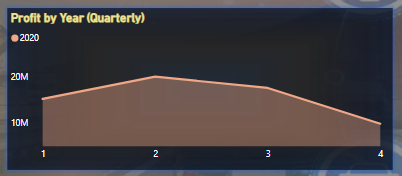
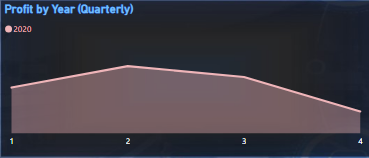
last commit on last portfolio

Changed region(s): [[0.0, 0.0, 1.0, 1.0]]

diff --git a/generic.html b/generic.html
@@ -40,101 +40,280 @@
 						<!-- Post -->
 							<section class="post">
 								<header class="major">
-									<h1>Diagnostic Analysis on Cookies Business Using Power BI</h1>
-									<p> Executive Summary: Diagnostic Analysis of Low Purchase from Promo and Acme Grocery Store</p>
+									<h1>Descriptive Analysis on OLK STORE Using Power BI</h1>
+									<p> Executive Summary: Descriptive Analysis on OLK STORE </p>
 								</header>
-								<div class="image main"><img src="images/cookiesdb.png" alt="" /></div>
+								<div class="image main"><img src="images/olkdashboard.PNG" alt="" /></div>
 								<p>
 								<strong>
 									Introduction:
 								</strong>
-									OLK Store, a wholesale cookies retailer, has been experiencing low purchases from two significant
-									 customers, Promo and Acme Grocery Store. This diagnostic analysis aims to uncover the root cause of 
-									 the low purchase and present key performance indicators (KPIs) such as total transactions, total profit, total 
-									 revenue, total number of cookies sold, and production cost. The analysis was conducted as part of an intern
-									  project, involving data cleaning and modeling using Power Query and Power BI.
-									
+								OLK Store, a prominent wholesale supplier specializing in cookies, commissioned a comprehensive
+								 analysis to elucidate critical aspects of its business operations. The focus of this analysis
+								  was to delineate key performance indicators (KPIs) that encompassed total transactions, total profit,
+								   total revenue, total units of cookies sold, and production costs. The project additionally delved into
+								    customer segmentation based on the quantity of cookies purchased, with a keen examination of the 
+									associated shipping durations.
+
+								Executed as part of an intern project, this analysis undertook meticulous data cleaning and modeling 
+								procedures employing advanced tools such as Power Query and Power BI. The utilization of these sophisticated
+								 analytical tools ensured a rigorous and insightful examination of OLK Store's operational dynamics, allowing 
+								 for a nuanced understanding of various facets crucial to strategic decision-making and business optimization.
+								  The outcomes of this project contribute valuable insights for refining business strategies and enhancing 
+								  overall performance within the wholesale cookies supply domain.
+								
+								
+								
+								
+								
+								
+							   <p>
+								<strong>	
 									Data Preparation:
-									The raw data, spanning four years and organized into separate Excel sheets, was imported into Power Query. 
+								</strong>
+								
+								<img class="image chart" src="images/dataset.png"  alt="" />
+								
+								
+									The raw data, spanning four years and organized into separate Excel sheets, was imported into Power Query using append 
+									and merge. 
 									The data underwent cleaning to address null values and unwanted figures. Afterward, it was loaded into Power BI
 									 for further analysis.
+									 <p>
+										<strong>
+											Total Transactions By Customer:
+										</strong>
+										<img class="image column" src="images/olkcustomertotaltrans.PNG"  alt="" />
+										During the period spanning from 2017 to 2020, the following transactional
+										 data was observed for several establishments:
+										<ul>
+											<strong>
+											<h4>
+												YT Restaurants:
+											</h4>
+											</strong>	
+											<li>Total Transactions: 670</li>
+											<li>Number of Cookies Shipped: 345,614</li>
+										</ul>
+										<ul>
+											<strong>
+											<h4>
+												Quick Bite Conveniences Store:
+											</h4>
+											</strong>	
+											<li>Total Transactions: 779</li>
+											<li>Number of Cookies Shipped: 395,394</li>
+										</ul>
+
+										<ul>
+											<strong>
+											<h4>
+												Promo Sales:
+											</h4>
+											</strong>	
+											<li>Total Transactions: 59</li>
+											<li>Number of Cookies Shipped: 31,778</li>
+										</ul>
+										<ul>
+											<strong>
+											<h4>
+												Cascade Grovers:
+											</h4>
+											</strong>	
+											<li>Total Transactions: 918</li>
+											<li>Number of Cookies Shipped: 479,965</li>
+										</ul>
+										<ul>
+											<strong>
+											<h4>
+												Park & Eat LLC:
+											</h4>
+											</strong>	
+											<li>Total Transactions: 597</li>
+											<li>Number of Cookies Shipped: 313,113</li>
+										</ul>
+										<ul>
+											<strong>
+											<h4>
+												Acme Grocery Store:
+											</h4>
+											</strong>	
+											<li>Total Transactions: 208</li>
+											<li>Number of Cookies Shipped: 112,358</li>
+										</ul>
+									</p>
+									Therefore, the combined total transactions for all establishments over the period of 2017 to 2020 amount to <strong>3,231</strong>
+									Total Cookies Shipped from 2017 to 2020: amounts to <strong>1,198,257.</strong>
+									<p>
+										<strong>
+											Customer Segment:
+										</strong>
+										<img class="image column" src="images/olkpurchasesegment.PNG"  alt="" />
+										Establishments demonstrating transactional volumes equal to or exceeding 300 
+										were categorized as high-purchasing customers, reflecting a substantial level of engagement and business
+										 activity. Conversely, establishments with transactional volumes
+										 below 300 were classified as low-purchasing customers, indicating a comparatively moderate 
+										 level of business interaction. 
+										 This classification framework provides a structured approach to assessing the performance 
+										 and purchasing behavior of each customer, facilitating a nuanced understanding of their
+										  respective contributions to the overall business landscape.
+
+
+
+
+
+
+ 									</p>
+									 <p>
+										<strong>
+											Shipments Duration Segment:
+										</strong>
+										<img class="image column" src="images/olkshipmentduration.PNG"  alt="" />
+										The categorization of shipment durations is established based on a discerning criterion: durations equal
+										 to or less than 3 are classified as expedited or fast shipments, whereas durations exceeding 3 are designated
+										  as standard or slower shipments. This meticulous classification system enables a nuanced evaluation of 
+										  shipping efficiency, allowing for a more strategic and informed approach to logistics management.
+ 									</p>		
 								</p>		
 								<p>
 								<strong>	
 									Data Modeling:
 								</strong>
+								<div>
+									<img class="image column" src="images/model.PNG"  alt="" />
+								</div>
 									A critical step in the process involved the creation of a one-to-many relationship between the fact table and
 									 dimension table. This relationship was pivotal for connecting transactional data with relevant dimensions for
 									  a comprehensive analysis.
-								<div>
-									<img class="image main" src="images/model.PNG"  alt="" />
-								</div>
-								</p>	
+								
+								</p>
+								
 								<p>
-									<ul>
+									
+									<strong>
 										Key Findings:
-										The dashboard revealed several key insights for the current Year:	
+									</strong>
+										The dashboard revealed several key insights for the current Year 2020:
+									<div>
+										<img class="image column" src="images/olkkpi.PNG"  alt="" />
+									</div>
+									<ul>	
 										<li>Total transactions: 707</li>	
-										<li>Total profit: $62.8 million</li>
-										<li>Total revenue: $627.8 million</li>
+										<li>Total profit: $63 million</li>
+										<li>Total revenue: $628 million</li>
 										<li>Total number of cookies sold: 371,000</li>
 										<li>Production cost: $588 million</li>	
 									</ul>
 								</p>
-								<div>
-									<img class="image chart" src="images/kpi.PNG"  alt="" />
-								</div>
+								
 								<p>
-								<strong>
-									Profit Analysis by Year:
-								</strong>		
-									2019: A downward trend was observed from the first quarter to the third quarter, followed by an upward trend 
-									in the fourth quarter.
-								<div>
-									<img class="image chart" src="images/areachart.PNG" alt="" />
-								</div>
-									2020: An upward trend was noted from the first quarter to the second quarter, followed by a steep downward trend
-									 from the third quarter to the fourth quarter.
-								<div>
-									<img class="image chart" src="images/Areachart2.PNG" alt="" />
-								</div>
+									<strong>
+										Profit Analysis by Year:
+									</strong>
+								
+									<h4>
+										<strong>2017:</strong>
+									</h4>
+									
+										<img class="image chart" src="images/olkareachart17.PNG" alt="" />
+											
+										The observed pattern indicates a positive trajectory from the initial quarter through the third quarter,
+										followed by a notable and abrupt ascent in the fourth quarter. This distinctive trend highlights the 
+										dynamic shifts in performance and a slow growth in the fourth quarter.
 								</p>
 								<p>
-								<strong>
-									Total Transactions by Customer:
-								</strong>
-
-									A cluster bar chart depicted that Acme Grocery Stores and Promo had 49 and 14 transactions, respectively, 
-									categorizing them as low-purchasing customers.
+									<h4>
+										<strong>2018:</strong>
+									</h4>
+									
+										<img class="image chart" src="images/olkareachart18.PNG" alt="" />
+												
+										The area chart illustrates a consistent upward trajectory from the first quarter through 
+										the third quarter. Notably, a pronounced and rapid descent in performance is observed in the transition 
+										from the third quarter to the fourth quarter. This visual depiction underscores the need for a detailed
+										 examination of the factors influencing these trends, providing valuable insights for strategic analysis
+										  and decision-making.
 								</p>
-								<div>
-									<img class="image chart" src="images/transactionsbycust1.PNG" alt="" />
-								</div>
 								<p>
-								</strong>
-								<strong>
-									Total Transactions by Shipping Duration:
-								</strong>
-									An analysis of shipping duration revealed that all transactions with Promo and Acme Grocery Store experienced
-									 delays. This delay may be a contributing factor to the low purchase volumes from these customers.
+									<h4>
+										<strong>2019:</strong>
+									</h4>
+									
+										<img class="image chart" src="images/olkareachart19.PNG" alt="" />
+												
+										An analysis of the data reveals a visible downward trend from the first quarter through the third quarter, 
+										succeeded by a noteworthy upward trajectory in the fourth quarter. This observed pattern emphasizes the dynamic
+										 nature of the data and highlights the importance of exploring the underlying factors contributing to these trends
+										  for a comprehensive understanding the rapid change during the specified period.
+								</p>		
+									
+								<p>
+									<h4>
+										<strong>2020:</strong>
+									</h4>
+									
+										<img class="image chart" src="images/Areachart2.PNG" alt="" />
+												
+										In the fiscal year 2020, an upward trend was noted from the first quarter to the second quarter, followed by a steep downward 
+								trend from the third quarter to the fourth quarter. This analysis of quarterly variations underscores the importance of 
+								exploring the underlying factors influencing these trends, providing valuable insights for strategic decision-making and future
+								 planning.
+								
 								</p>
+								
+								</p>
+								
+								
+								
 								<p>	
-								<strong>
-									Recommendation:
-								</strong>
-									Based on the insights gathered from the dashboard, it is deduced that the low purchase from Promo and 
-									Acme Grocery Store could be attributed to delayed shipments. Therefore, it is recommended that OLK Store 
-									addresses and improves the efficiency of its shipping processes to enhance customer satisfaction and 
-									potentially increase purchases from these clients.
+									<strong>
+										Recommendation:
+									</strong>
+								</p>
+								<h4>
+									Optimization of Shipping Processes:
+								</h4>
+
+								Given the impact of shipment duration on customer satisfaction and business performance,
+								 it is recommended to conduct a comprehensive review of shipping processes. This may involve
+								  streamlining operations to reduce shipping durations, particularly for expedited shipments. 
+								  Improved logistics efficiency can contribute to enhanced customer experience and loyalty.
+								<h4>
+									Strategic Customer Engagement:
+								</h4>
+									The customer segmentation analysis identified establishments with transactional volumes
+									 equal to or exceeding 300 as high-purchasing customers. It is advisable to implement 
+									 targeted engagement strategies for these customers, such as personalized offers, loyalty 
+									 programs, or exclusive promotions. Strengthening relationships with high-purchasing 
+									 customers can have a positive impact on overall business performance.
+								<h4>
+									Continuous Monitoring and Adaptation:
+								</h4>
+								The dynamic nature of performance trends, as evident from the yearly analyses, underscores 
+								the importance of continuous monitoring and adaptability. OLK Store should establish a proactive
+								 approach to monitor market changes, customer behaviors, and internal operations, allowing for 
+								 timely adjustments to business strategies.
+								
 								</p>
 								<p>
-								<strong>
-									Conclusion:
-								</strong>
-									This diagnostic analysis provides a comprehensive overview of OLK Store's transactional data,
-									 identifying specific issues with two key customers. By addressing the highlighted shipping delays,
-									  OLK Store can potentially enhance its relationship with Promo and Acme Grocery Store, leading to 
-									  increased sales and improved overall performance.
+									<strong>
+										Conclusion:
+									</strong>
+							 	</p>
+								 In conclusion, the descriptive analysis conducted on OLK Store using Power BI has provided
+								  valuable insights into various facets of the business, ranging from customer transactions 
+								  to profitability and production costs. The detailed examination of key performance indicators 
+								  and trends over the years has offered a comprehensive understanding of the business dynamics.
+
+								 The findings emphasize the need for strategic adaptations in shipping processes and customer
+								  engagement strategies. Continuous monitoring and proactive decision-making are crucial for 
+								  navigating the evolving market landscape.
+								 
+								 By implementing the recommended strategies and maintaining a flexible approach, OLK Store
+								  can position itself for sustained growth, improved customer relations, and optimized 
+								  operational efficiency within the wholesale cookies supply domain. This analysis serves 
+								  as a foundation for informed decision-making and strategic planning to drive the future 
+								  success of OLK Store.
 								</p>	
 							</section>
 
@@ -145,7 +324,11 @@
 
 				<!-- Copyright -->
 					<div id="copyright">
-						<ul><li>&copy; Samuel Okon</li></ul>
+						<ul>
+							<li>&copy; Samuel Okon</li>
+							<li><a href="https://www.linkedin.com/in/samuel-okon-294325152/" class="icon brands fa-linkedin"><span class="label">Twitter</span></a></li>
+							<li><a href="https://github.com/flameloaded?tab=repositories" class="icon brands fa-github"><span class="label">GitHub</span></a></li>
+						</ul>
 					</div>
 
 			</div>

diff --git a/assets/css/main.css b/assets/css/main.css
@@ -2639,9 +2639,15 @@ input, select, textarea {
 		}
 		.image.chart {
 			display: block;
-			margin: 4rem 0;
-			width: 60%;
+			margin: 1rem 0;
+			width: 50%;
 		}
+		.image.column {
+			display: block;
+			margin: 1rem 0;
+			width: 100%;
+		}
+		
 
 			.image.main:first-child {
 				margin-top: 0;
@@ -2695,7 +2701,7 @@ input, select, textarea {
 	}
 
 		ul.actions li {
-			padding: 0 0 0 1rem;
+			padding: 0 0 0 0rem;
 			vertical-align: middle;
 		}
 
